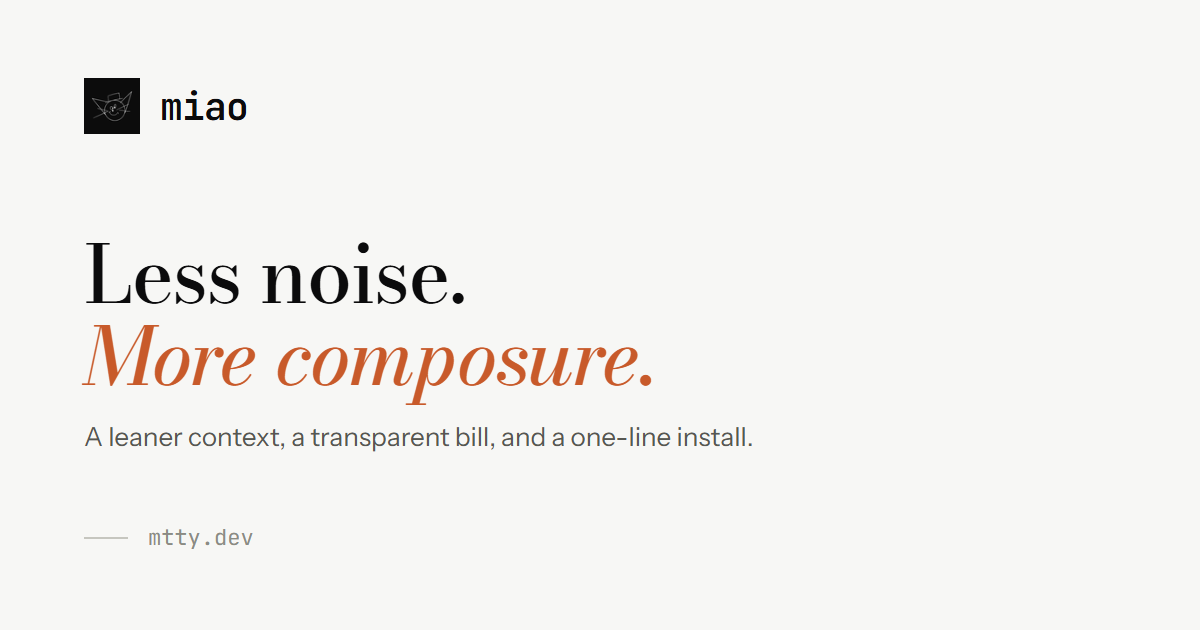
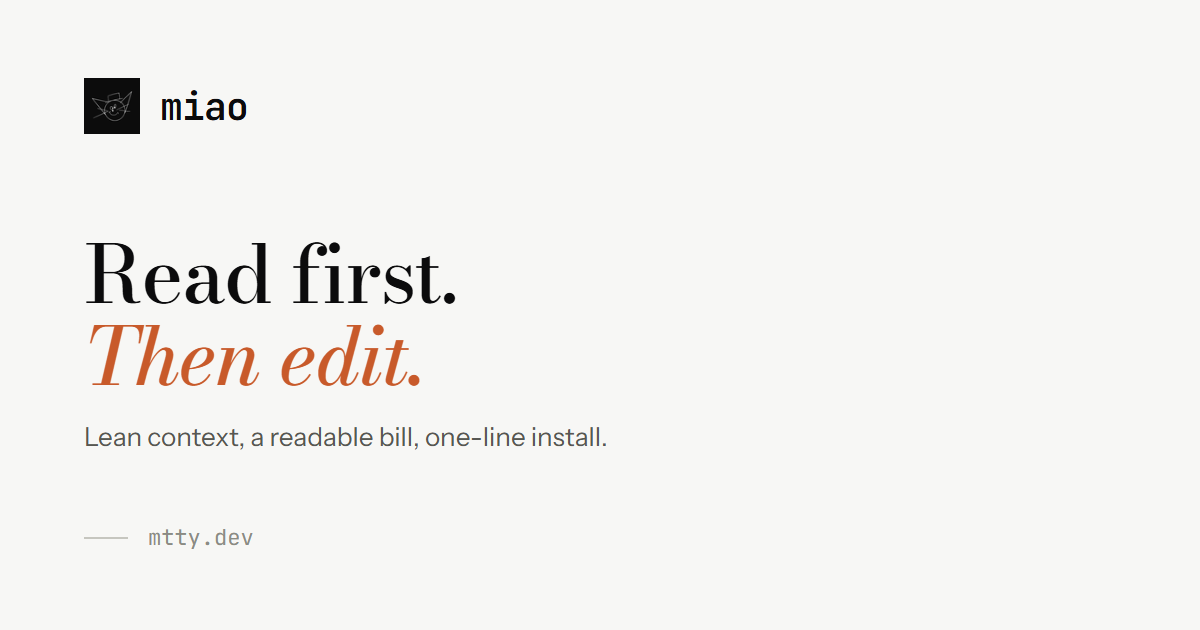
feat(site): rewrite the marketing copy in plain language (#37)
The old copy leaned on three-beat slogans, paired four-character headings and literal translations such as 'damage-driven redraws'. Replace the headline layer with concrete, uneven sentences in both languages, keep every technical claim, and regenerate the social cards so they carry the same lines.

Changed region(s): [[0.0617, 0.5127, 0.6167, 0.7238], [0.0617, 0.3619, 0.4008, 0.4825]]

diff --git a/scripts/og.ts b/scripts/og.ts
@@ -101,60 +101,60 @@ const cards: Card[] = [
     lang: "en",
     mark: siteMark,
     name: "",
-    headline: "Less noise.",
-    accent: "More composure.",
+    headline: "It reads your repo,",
+    accent: "then waits for you.",
     ink: "var(--miao-2)",
-    sub: "miao, an open-source AI agent designed for focus. mtty, a terminal written in Rust.",
+    sub: "miao, an open-source coding agent for the terminal. mtty, a terminal and editor in Rust.",
   },
   {
     file: "home-zh.png",
     lang: "zh",
     mark: siteMark,
     name: "",
-    headline: "少一点冗余。",
-    accent: "多一点从容。",
+    headline: "它读你的仓库，",
+    accent: "然后等你。",
     ink: "var(--miao-2)",
-    sub: "miao，为专注而设计的开源 AI 智能体。mtty，用 Rust 编写的终端。",
+    sub: "miao，开源的终端编码代理。mtty，用 Rust 写的终端与编辑器。",
   },
   {
     file: "miao-en.png",
     lang: "en",
     mark: miaoMark,
     name: "miao",
-    headline: "Less noise.",
-    accent: "More composure.",
+    headline: "Read first.",
+    accent: "Then edit.",
     ink: "var(--miao-2)",
-    sub: "A leaner context, a transparent bill, and a one-line install.",
+    sub: "Lean context, a readable bill, one-line install.",
   },
   {
     file: "miao-zh.png",
     lang: "zh",
     mark: miaoMark,
     name: "miao",
-    headline: "少一点冗余，",
-    accent: "多一点从容。",
+    headline: "先看懂，",
+    accent: "再动手。",
     ink: "var(--miao-2)",
-    sub: "上下文精简，开销透明，安装只需一行。",
+    sub: "开源的终端编码代理。上下文收得紧，装起来只有一行。",
   },
   {
     file: "mtty-en.png",
     lang: "en",
     mark: mttyMark,
     name: "mtty",
-    headline: "A fast, embeddable terminal,",
-    accent: "written in Rust.",
+    headline: "Terminal, editor,",
+    accent: "agents in one window.",
     ink: "var(--mtty-accent)",
-    sub: "A terminal emulator and engine, rendered on the GPU.",
+    sub: "A terminal and editor written in Rust. Local and remote, in one window.",
   },
   {
     file: "mtty-zh.png",
     lang: "zh",
     mark: mttyMark,
     name: "mtty",
-    headline: "快速、可嵌入的终端，",
-    accent: "用 Rust 编写。",
+    headline: "终端、编辑器、代理，",
+    accent: "一个窗口。",
     ink: "var(--mtty-accent)",
-    sub: "GPU 渲染的终端模拟器与引擎。",
+    sub: "用 Rust 写的终端与编辑器。本地和远程，一个窗口。",
   },
 ]
 
